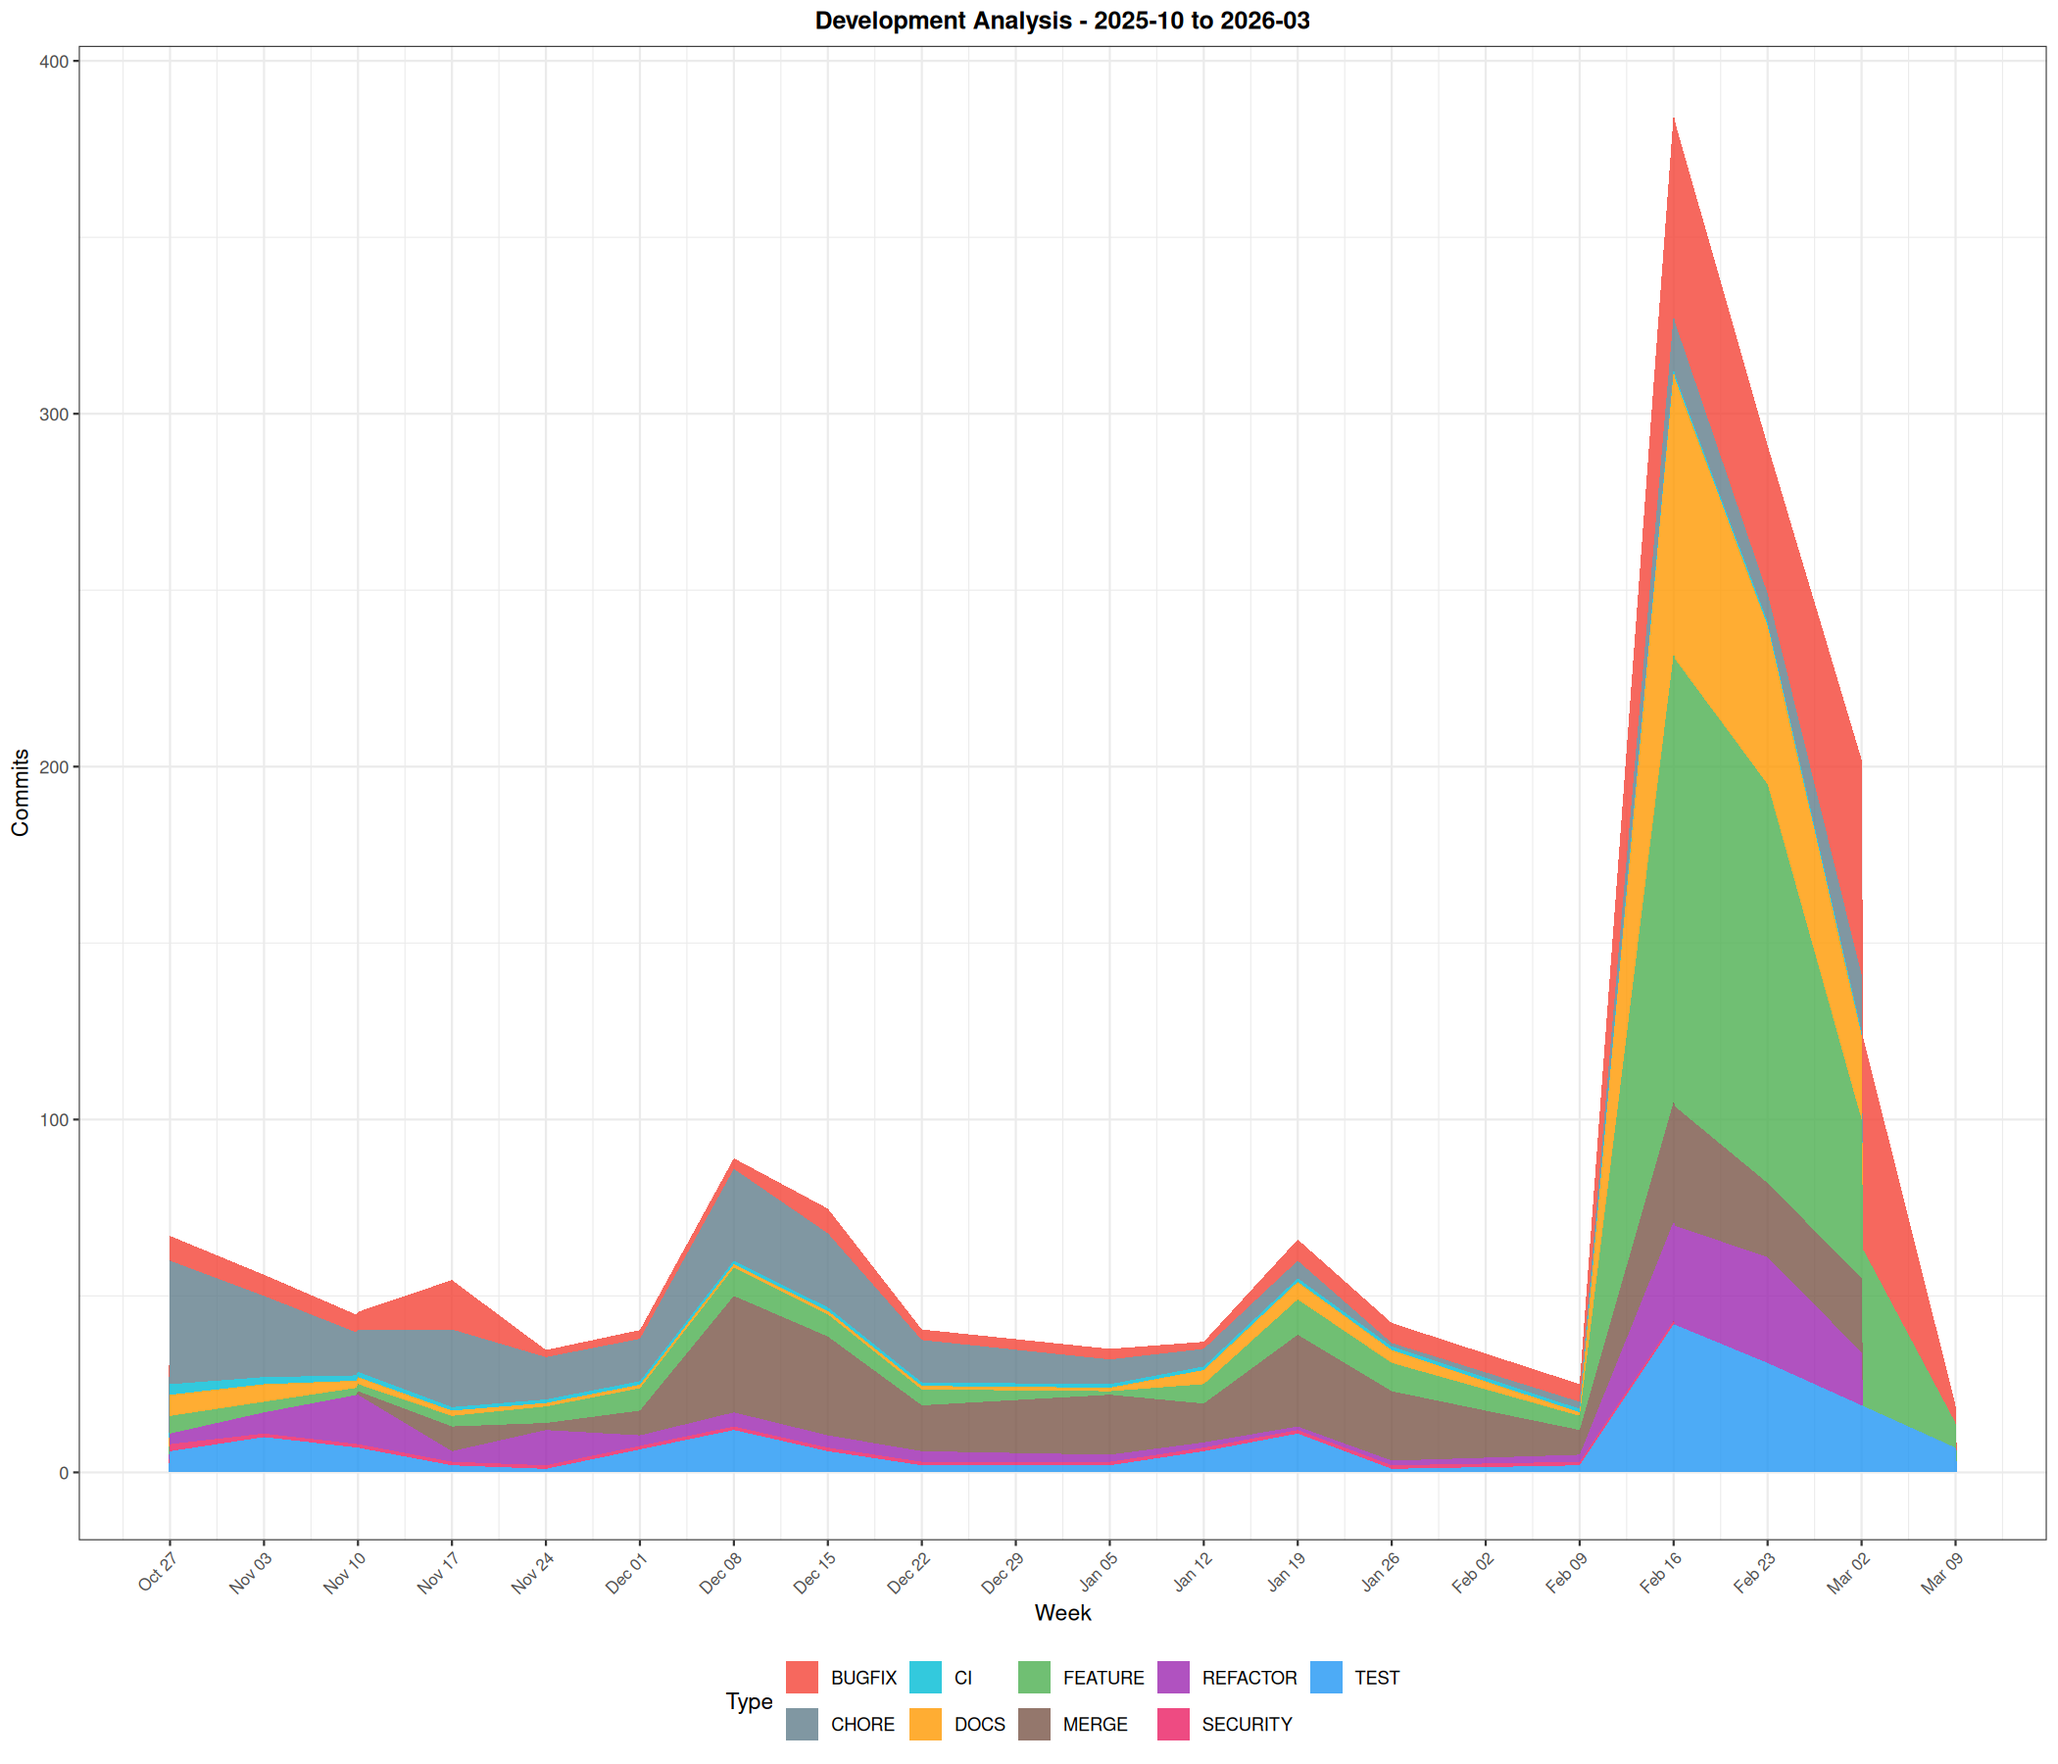
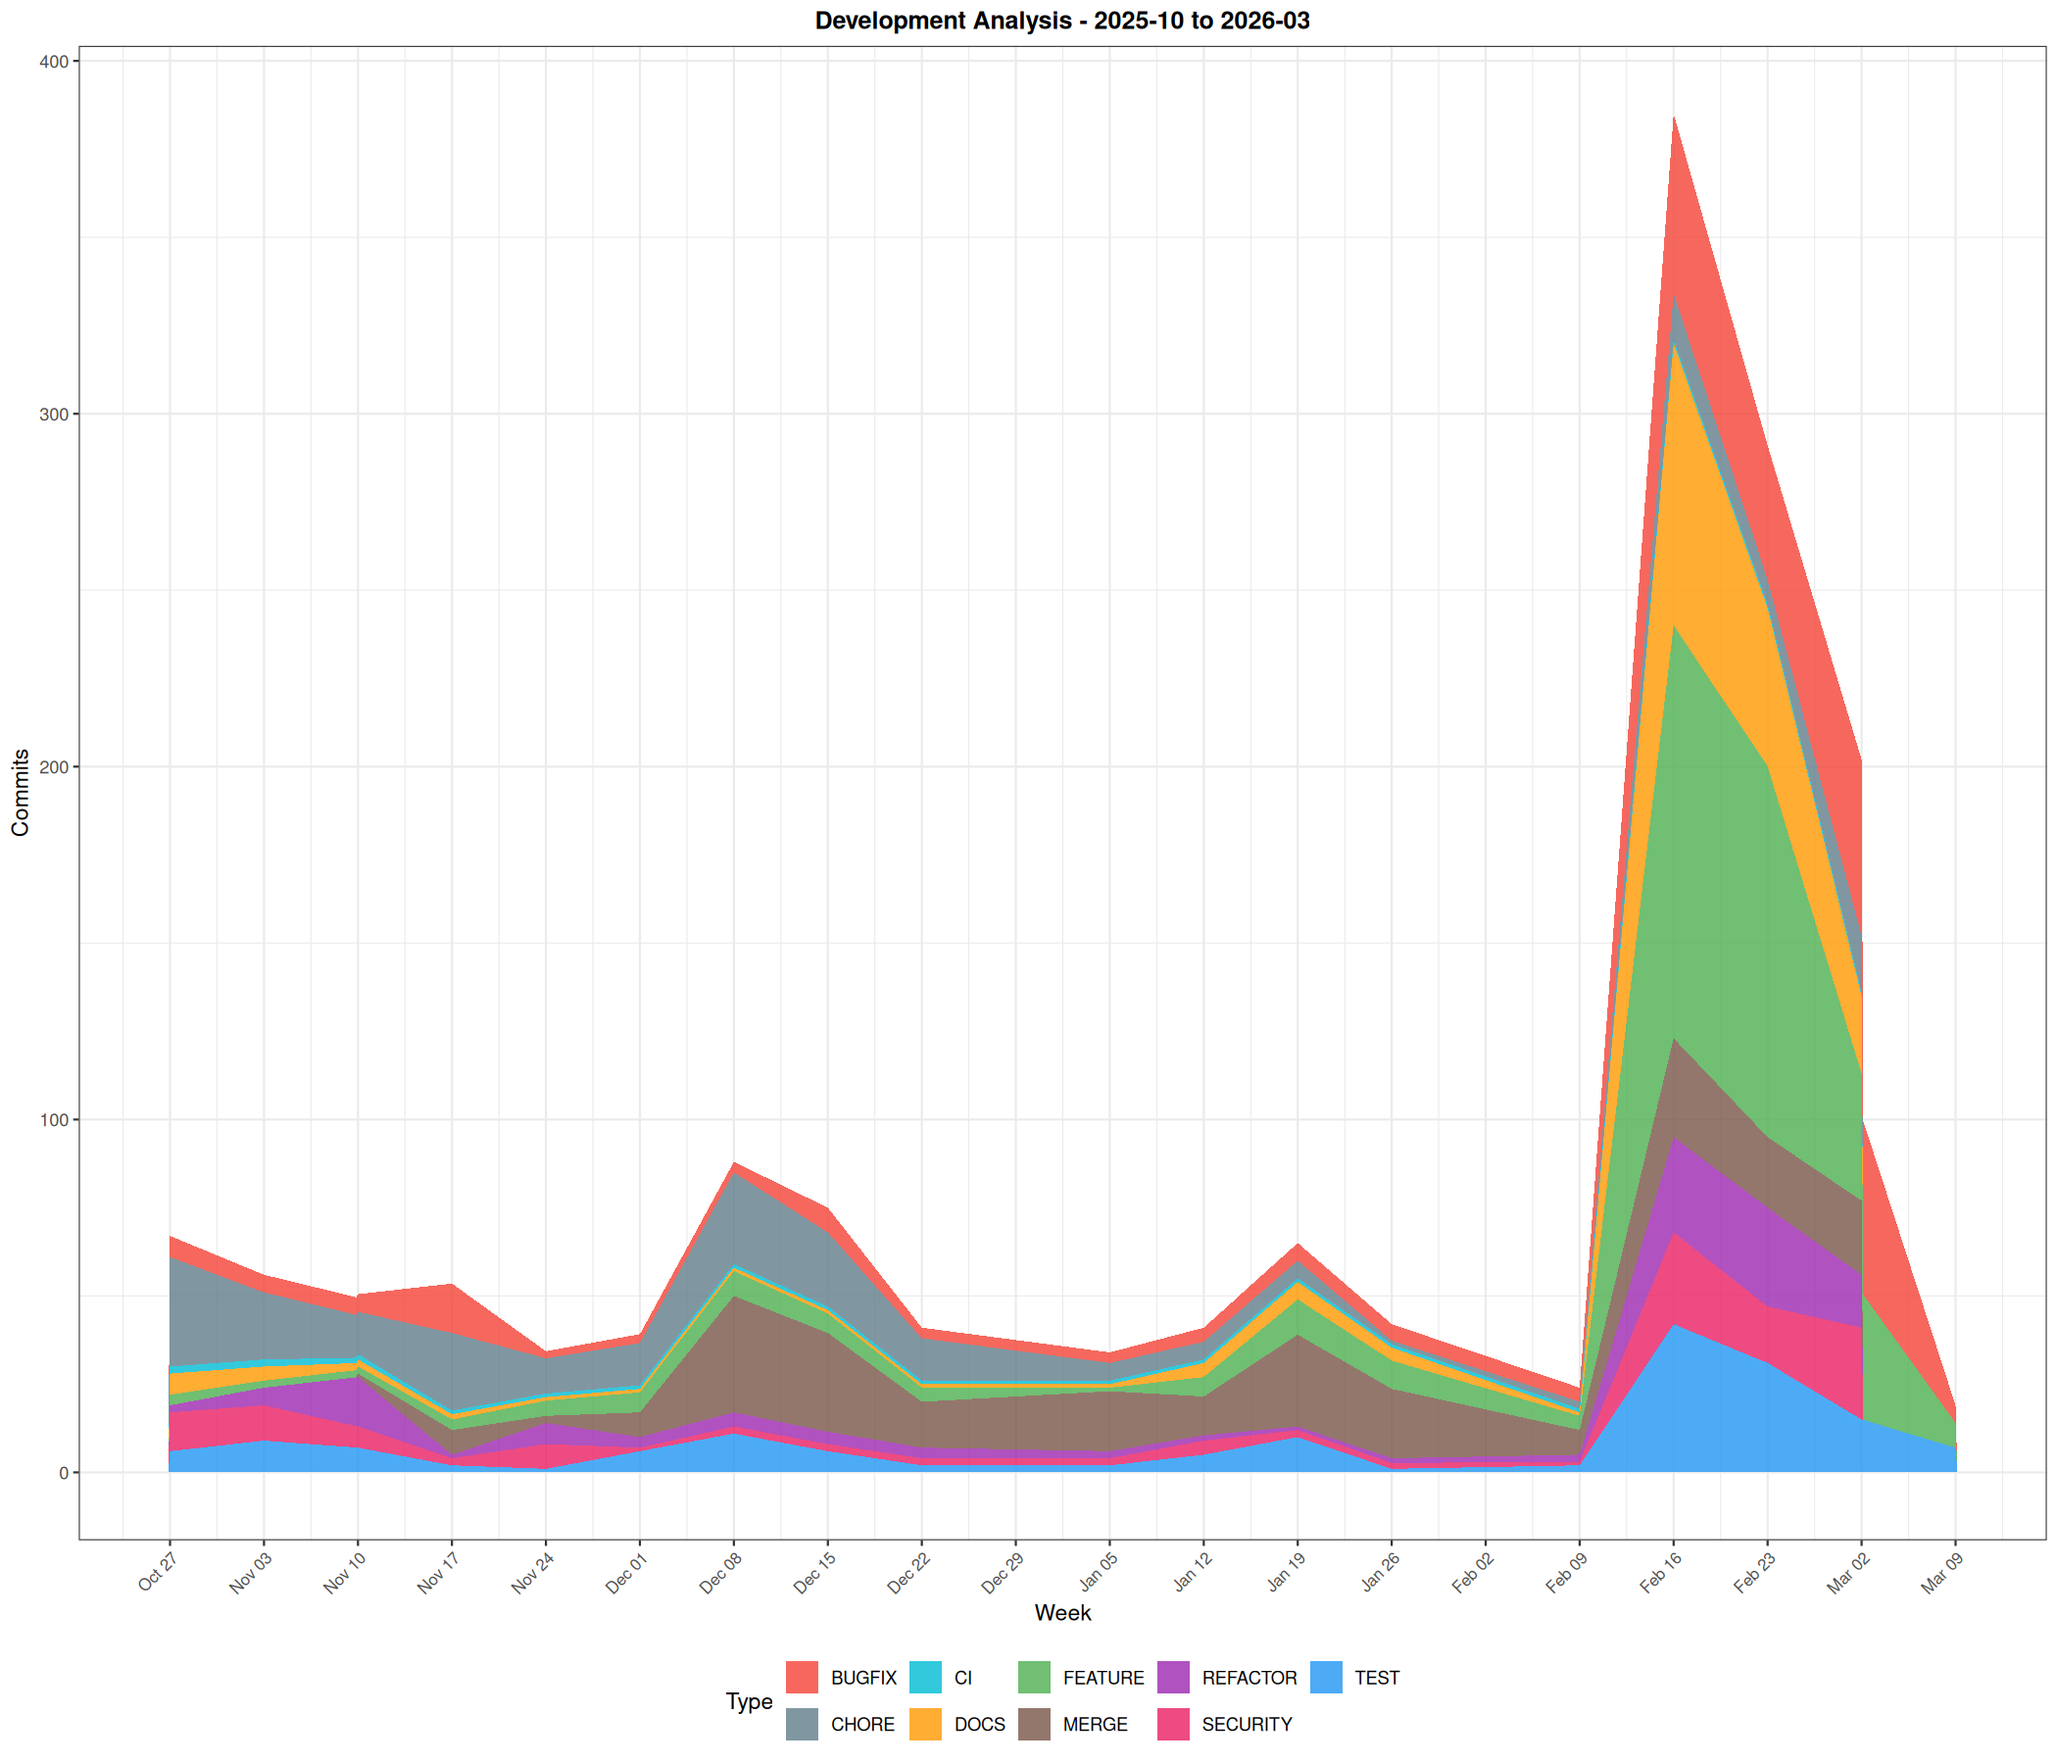
docs: update commit analysis dashboard and statistics
Refresh dashboard image and update commit type distribution table
to reflect latest classified data (1,276 non-merge commits). Notable
changes: SECURITY now 8.6% (up from 0.3%), REFACTOR at 8.5% (down
from 9.4%), added March 2026 to monthly breakdown.

diff --git a/docs/references/reference-telegram-trading-bot-case-study.md b/docs/references/reference-telegram-trading-bot-case-study.md
@@ -437,42 +437,45 @@ The reference project's git history provides empirical evidence for how agentic 
 
 ![Commit Analysis Dashboard](../diagrams/commit-analysis-dashboard.png)
 
-### Commit Type Distribution (non-merge: 1,269 commits)
+### Commit Type Distribution (non-merge: 1,276 commits)
 
 | Type | Count | Share |
 |------|-------|-------|
-| FEATURE | 327 | 25.8% |
-| CHORE | 234 | 18.4% |
-| BUGFIX | 228 | 18.0% |
-| DOCS | 175 | 13.8% |
-| TEST | 168 | 13.2% |
-| REFACTOR | 119 | 9.4% |
-| CI | 14 | 1.1% |
-| SECURITY | 4 | 0.3% |
+| FEATURE | 297 | 23.3% |
+| CHORE | 219 | 17.2% |
+| BUGFIX | 201 | 15.8% |
+| DOCS | 172 | 13.5% |
+| TEST | 159 | 12.5% |
+| SECURITY | 110 | 8.6% |
+| REFACTOR | 108 | 8.5% |
+| CI | 10 | 0.8% |
 
 ### Feature-to-Test Ratio
 
-The overall feature-to-test ratio is 0.51x (one test commit for every two feature commits). This ratio varies significantly by month:
+The overall feature-to-test ratio is 0.54x (one test commit for every two feature commits). This ratio varies significantly by month:
 
-- **December 2025**: 2.50x (test-heavy — infrastructure and test framework buildout)
-- **January 2026**: 0.52x (balanced — steady feature development with testing)
-- **February 2026**: 0.31x (feature-heavy — peak development velocity)
+- **December 2025**: 2.71x (test-heavy — infrastructure and test framework buildout)
+- **January 2026**: 1.64x (balanced — steady feature development with testing)
+- **February 2026**: 0.33x (feature-heavy — peak development velocity)
+- **March 2026**: 0.52x (rebalancing — testing catches up after the February surge)
 
-The December spike reflects the upfront investment in testing infrastructure (StackTestUtils, container isolation, bootstrap system) that enabled the higher feature velocity in subsequent months.
+The November-December spike reflects the upfront investment in testing infrastructure (StackTestUtils, container isolation, bootstrap system) that enabled the higher feature velocity in subsequent months.
 
 ### Development Velocity
 
-February 2026 was the busiest period: 623 non-merge commits across 17 active days (36.6 commits/day average).
+February 2026 was the busiest period: 629 non-merge commits across 17 active days (37.0 commits/day average).
 
 ### What the Data Shows
 
-1. **Testing is a first-class output, not an afterthought** — 13.2% of commits are TEST, comparable to DOCS (13.8%). Test infrastructure received dedicated investment in December before the feature acceleration in January-February.
+1. **Testing is a first-class output, not an afterthought** — 12.5% of commits are TEST, comparable to DOCS (13.5%). Test infrastructure received dedicated investment in November-December before the feature acceleration in January-February.
 
-2. **Documentation keeps pace with code** — DOCS commits at 13.8% indicate continuous documentation updates, consistent with the L4 documentation-as-contract pattern. Docs are not deferred to a separate phase.
+2. **Documentation keeps pace with code** — DOCS commits at 13.5% indicate continuous documentation updates, consistent with the L4 documentation-as-contract pattern. Docs are not deferred to a separate phase.
 
-3. **Refactoring is continuous** — 9.4% REFACTOR commits show ongoing code quality maintenance rather than periodic cleanup sprints. This aligns with L4 aggressive cleanup as a continuous practice.
+3. **Refactoring is continuous** — 8.5% REFACTOR commits show ongoing code quality maintenance rather than periodic cleanup sprints. This aligns with L4 aggressive cleanup as a continuous practice.
 
-4. **Bugfix rate is high but expected** — 18.0% BUGFIX commits reflect iterative development where bugs are found and fixed rapidly through the stack test feedback loop. The high diagnosticity of stack tests means bugs are caught early and fixed immediately (L2 zero-defect tolerance), rather than accumulating.
+4. **Bugfix rate is high but expected** — 15.8% BUGFIX commits reflect iterative development where bugs are found and fixed rapidly through the stack test feedback loop. The high diagnosticity of stack tests means bugs are caught early and fixed immediately (L2 zero-defect tolerance), rather than accumulating.
 
-5. **CHORE commits reveal infrastructure investment** — 18.4% CHORE commits cover Docker configuration, dependency management, CI pipeline setup, and environment configuration. This overhead is the cost of running a full Docker stack for every test — the investment that makes stack tests possible.
+5. **Security is a significant concern** — 8.6% SECURITY commits reflect continuous attention to security in a financial application handling real funds and blockchain transactions. This is a domain-specific requirement that compounds with the zero-defect tolerance pattern.
+
+6. **CHORE commits reveal infrastructure investment** — 17.2% CHORE commits cover Docker configuration, dependency management, CI pipeline setup, and environment configuration. This overhead is the cost of running a full Docker stack for every test — the investment that makes stack tests possible.
 
